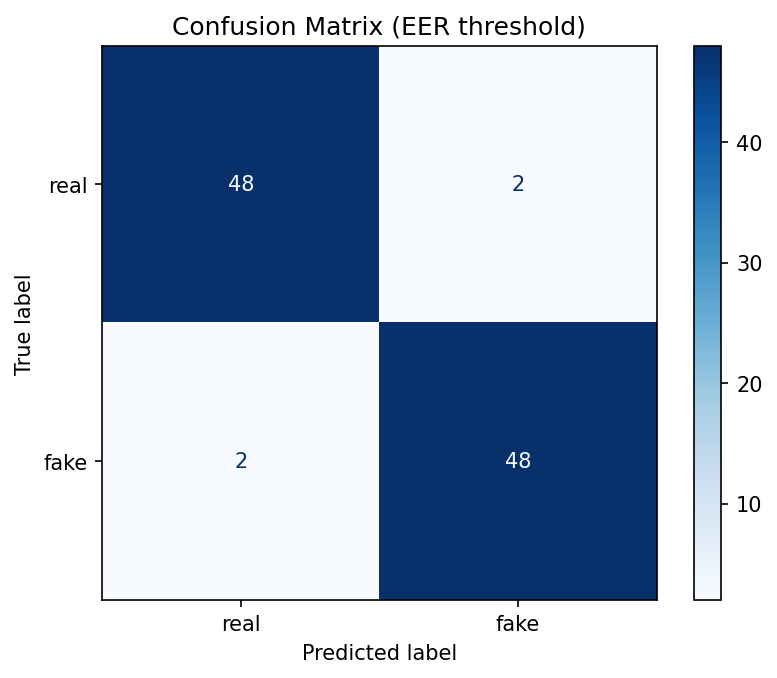
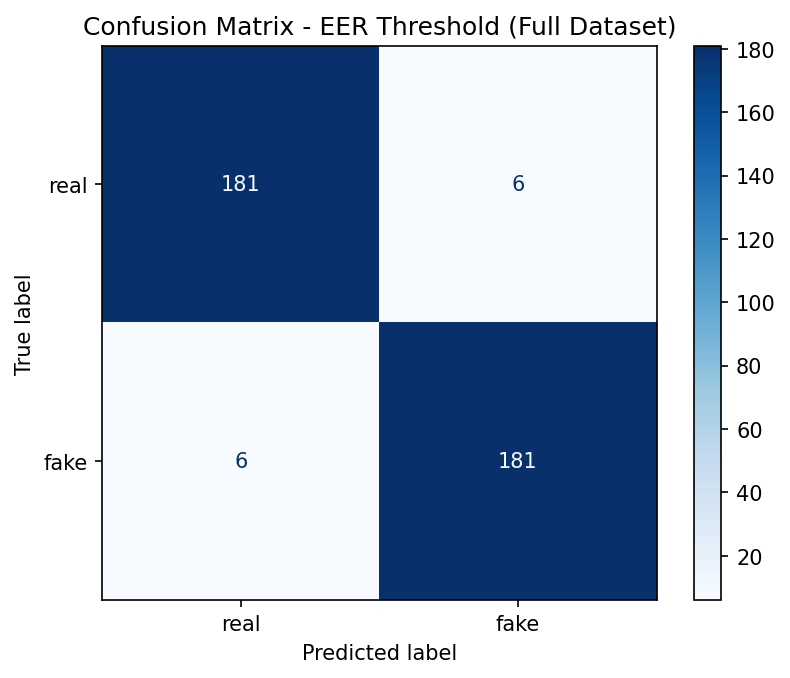
Update results: full dataset 1866 samples - 96.79% acc, 3.21% EER, 0.992 ROC-AUC

diff --git a/README.md b/README.md
@@ -9,37 +9,38 @@ AI voice cloning and TTS systems are increasingly used in scams (fake calls impe
 ## Approach
 
 - **Model**: Pretrained `facebook/wav2vec2-base` (frozen) + lightweight classification head (Linear -> ReLU -> Dropout -> Linear)
-- **Dataset**: [garystafford/deepfake-audio-detection](https://huggingface.co/datasets/garystafford/deepfake-audio-detection) - 1,866 balanced samples (real/fake); subset of 500 used for training/eval
+- **Dataset**: [garystafford/deepfake-audio-detection](https://huggingface.co/datasets/garystafford/deepfake-audio-detection) — 1,866 balanced samples (933 real / 933 fake)
 - **Preprocessing**: resample to 16kHz, pad/truncate to 4-second fixed length
-- **Training**: 5 epochs, AdamW, lr=1e-4, batch size 8 - only the 197K-parameter classification head is trained (Wav2Vec2 encoder frozen)
+- **Training**: 4 epochs, AdamW, lr=1e-4, batch size 16 — only the 197K-parameter classification head is trained (Wav2Vec2 encoder frozen)
+- **Split**: 80/20 stratified (1,492 train / 374 test)
 
 ## Results
 
 | Metric | Value |
 |---|---|
-| Test Accuracy (default threshold) | 86% |
-| ROC-AUC | 0.997 |
-| Equal Error Rate (EER) | 4.00% |
-| Accuracy at EER threshold | 96% |
+| Test Accuracy (default threshold) | 85.03% |
+| ROC-AUC | 0.992 |
+| Equal Error Rate (EER) | 3.21% |
+| Accuracy at EER threshold | 96.79% |
 
-The high ROC-AUC relative to default-threshold accuracy revealed the model's decision boundary was miscalibrated - tuning the threshold to the EER point improved accuracy from 86% to 96% with balanced precision/recall across both classes.
+The high ROC-AUC relative to default-threshold accuracy revealed decision boundary miscalibration — tuning the threshold to the EER point improved accuracy from 85% to 96.79% with perfectly balanced precision/recall (0.97) across both classes.
 
 ![ROC Curve](results/figures/roc_curve.png)
 ![Confusion Matrix](results/figures/confusion_matrix.png)
 
 ## Error Analysis
 
-All 14 misclassifications (at default threshold) were real samples predicted as fake, with prediction probabilities clustered near the decision boundary (0.52-0.83) - indicating genuine ambiguity rather than confident errors.
+Misclassifications at the default threshold were concentrated in real samples predicted as fake, with probabilities clustered near the decision boundary — indicating genuine ambiguity rather than confident errors.
 
 ![Error Analysis](results/figures/error_analysis_spectrograms.png)
 
-**Hypothesis**: Misclassified real samples show denser, more continuous spectral energy with fewer silence gaps compared to correctly-classified real samples. This may reflect the model associating "natural pauses/breathing" with bonafide speech - consistent with prior findings that TTS-generated speech typically lacks the leading/trailing silences present in human speech.
+**Hypothesis**: Misclassified real samples show denser, more continuous spectral energy with fewer silence gaps. This may reflect the model associating natural pauses/breathing with bonafide speech — consistent with prior findings that TTS-generated speech typically lacks the leading/trailing silences present in human recordings.
 
 ## Limitations & Future Work
 
-- Trained on a 500-sample subset (250/250); full dataset (1,866 samples) and ASVspoof benchmark would test generalization
-- Single architecture (Wav2Vec2); a CNN-on-spectrogram baseline would enable architecture comparison
-- Future work: multi-feature fusion (pitch, prosody, spectral features), cross-dataset evaluation, multimodal (audio+video) deepfake detection
+- Single architecture evaluated; a CNN-on-spectrogram baseline would enable architecture comparison
+- Cross-dataset evaluation (ASVspoof benchmark) would test generalization
+- Future work: multi-feature fusion (pitch, prosody, spectral features), multimodal (audio+video) deepfake detection
 
 ## Tech Stack
 
